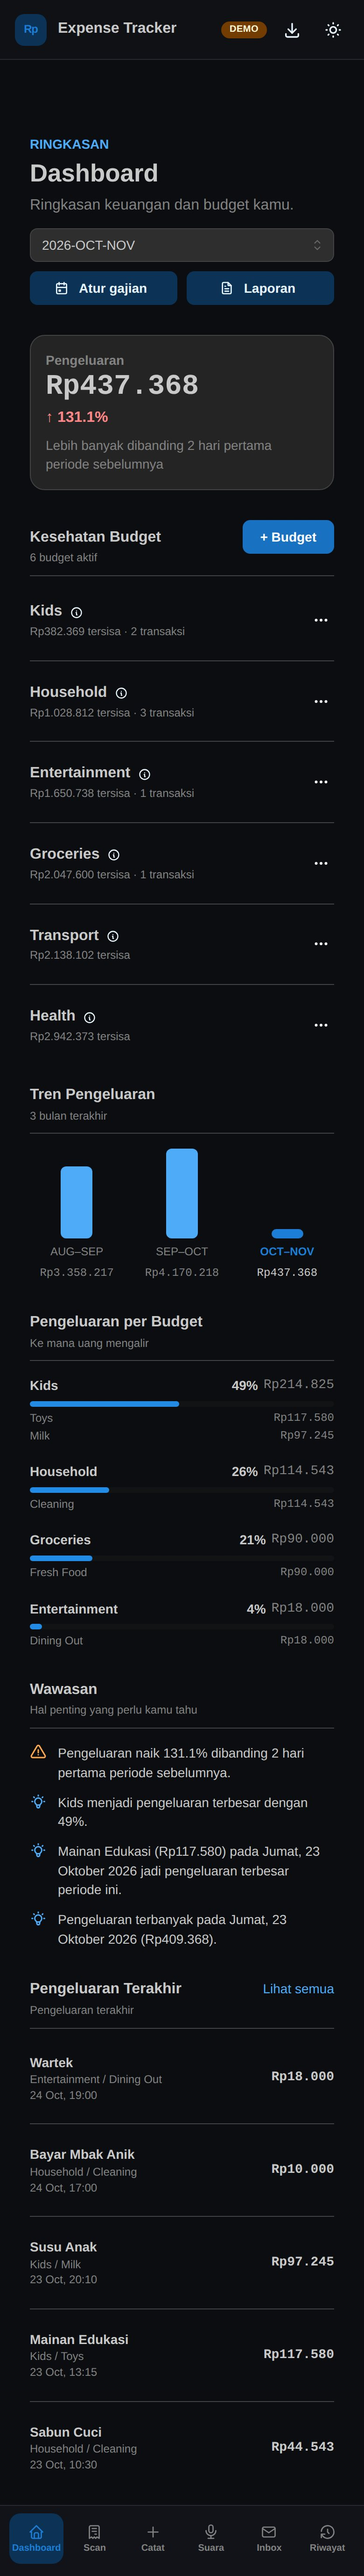
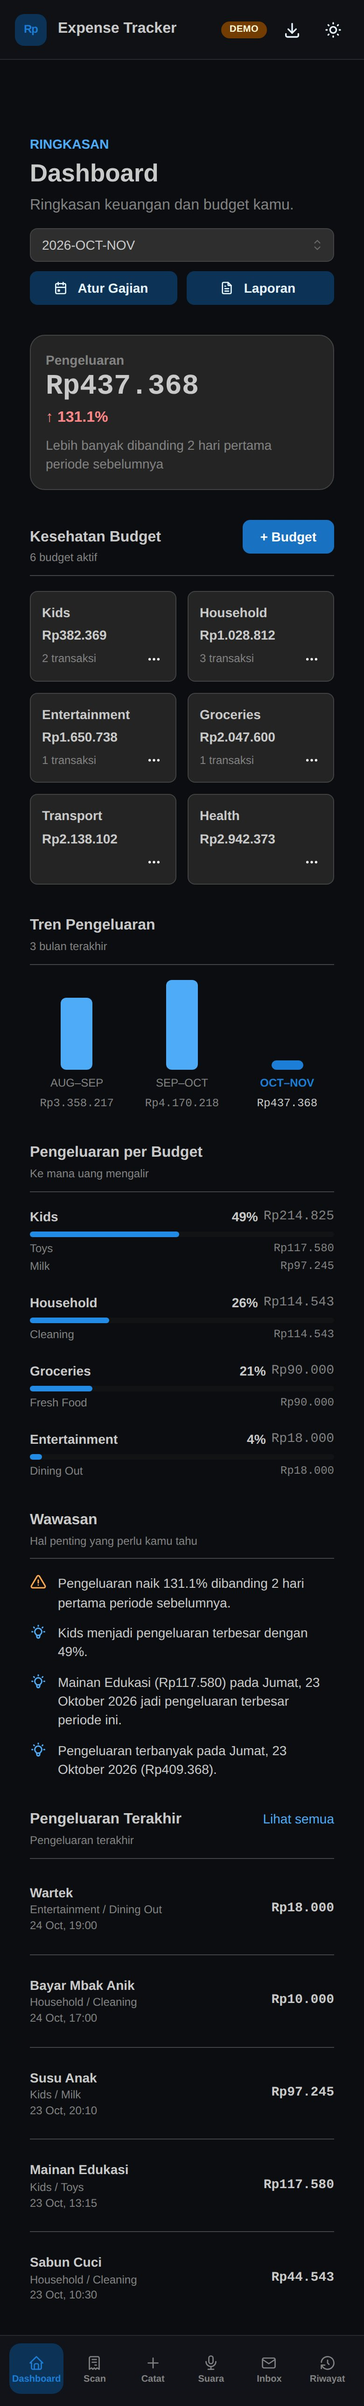
feat(dashboard): rapikan kartu kesehatan budget dan label atur gajian

diff --git a/frontend/src/components/dashboard/BudgetHealth.tsx b/frontend/src/components/dashboard/BudgetHealth.tsx
@@ -1,20 +1,18 @@
-import { Fragment, useMemo } from 'react'
+import { useMemo } from 'react'
 import {
   ActionIcon,
   Button,
-  Divider,
   Group,
   Menu,
-  Popover,
+  Paper,
+  SimpleGrid,
   Skeleton,
-  Stack,
   Text,
 } from '@mantine/core'
 import {
   IconAlertTriangle,
   IconClipboardList,
   IconDots,
-  IconInfoCircle,
   IconPencil,
   IconPlus,
   IconTag,
@@ -77,11 +75,12 @@ export function BudgetHealth({
       }
     >
       {isLoading ? (
-        <Stack gap="sm">
-          <Skeleton h={40} />
-          <Skeleton h={40} />
-          <Skeleton h={40} />
-        </Stack>
+        <SimpleGrid cols={2} spacing="sm">
+          <Skeleton h={72} radius="md" />
+          <Skeleton h={72} radius="md" />
+          <Skeleton h={72} radius="md" />
+          <Skeleton h={72} radius="md" />
+        </SimpleGrid>
       ) : isError ? (
         <ErrorState message="Gagal memuat budget." />
       ) : budgets.length === 0 ? (
@@ -89,62 +88,54 @@ export function BudgetHealth({
           Belum ada budget. Tambahkan budget pertama kamu.
         </Text>
       ) : (
-        <Stack gap={0}>
-          {sorted.map((b, i) => {
+        <SimpleGrid cols={2} spacing="sm">
+          {sorted.map((b) => {
             const info = infoOf(b.name)
             const negative = b.balance < 0
             const belowThreshold = b.alertThreshold > 0 && b.balance < b.alertThreshold
             const warning = negative || belowThreshold
             return (
-              <Fragment key={b.name}>
-                {i > 0 && <Divider my="sm" />}
-                <Group justify="space-between" align="center" wrap="nowrap" py="xs">
-                  <div style={{ minWidth: 0, flex: 1 }}>
-                    <Group gap={6} wrap="nowrap">
-                      {warning && (
-                        <IconAlertTriangle size={15} color={negative ? 'var(--mantine-color-red-6)' : 'var(--mantine-color-orange-6)'} aria-hidden />
-                      )}
-                      <Text fw={600} truncate>
-                        {b.name}
-                      </Text>
-                      {b.description && (
-                        <Popover width={280} position="bottom-start" withArrow shadow="md">
-                          <Popover.Target>
-                            <ActionIcon
-                              size="xs"
-                              variant="subtle"
-                              color="blue"
-                              aria-label={`Deskripsi ${b.name}`}
-                              style={{ flexShrink: 0 }}
-                            >
-                              <IconInfoCircle size={14} />
-                            </ActionIcon>
-                          </Popover.Target>
-                          <Popover.Dropdown>
-                            <Text size="sm">{b.description}</Text>
-                          </Popover.Dropdown>
-                        </Popover>
-                      )}
-                    </Group>
-                    <Text size="xs" c="dimmed" truncate>
-                      {negative
-                        ? `-${formatCurrency(Math.abs(b.balance))}`
-                        : `${formatCurrency(b.balance)} tersisa`}
-                      {info ? ` · ${info.count} transaksi` : ''}
-                    </Text>
-                    {belowThreshold && (
-                      <Text size="xs" c="orange" fw={600}>
-                        di bawah ambang {formatCurrency(b.alertThreshold)}
-                      </Text>
-                    )}
-                  </div>
-                  <Menu shadow="md" width={200} position="bottom-end">
+              <Paper key={b.name} withBorder radius="md" p="sm" h="100%" style={{ display: 'flex', flexDirection: 'column' }}>
+                <Group gap={6} wrap="nowrap" align="flex-start">
+                  {warning && (
+                    <IconAlertTriangle
+                      size={15}
+                      color={negative ? 'var(--mantine-color-red-6)' : 'var(--mantine-color-orange-6)'}
+                      aria-hidden
+                      style={{ flexShrink: 0, marginTop: 2 }}
+                    />
+                  )}
+                  <Text size="sm" fw={600} title={b.name} style={{ minWidth: 0, overflowWrap: 'break-word' }}>
+                    {b.name}
+                  </Text>
+                </Group>
+                <Text size="sm" fw={600} c={negative ? 'red' : undefined} mt={4}>
+                  {negative
+                    ? `-${formatCurrency(Math.abs(b.balance))}`
+                    : formatCurrency(b.balance)}
+                </Text>
+                {belowThreshold && (
+                  <Text size="xs" c="orange" fw={600} mt={2}>
+                    di bawah ambang {formatCurrency(b.alertThreshold)}
+                  </Text>
+                )}
+                <Group justify="space-between" align="center" wrap="nowrap" gap="xs" style={{ marginTop: 'auto', paddingTop: 4 }}>
+                  <Text size="xs" c="dimmed">
+                    {info ? `${info.count} transaksi` : ''}
+                  </Text>
+                  <Menu shadow="md" width={220} position="bottom-end">
                     <Menu.Target>
-                      <ActionIcon variant="subtle" color="gray" aria-label={`Menu ${b.name}`}>
-                        <IconDots size={18} />
+                      <ActionIcon size="sm" variant="subtle" color="gray" aria-label={`Menu ${b.name}`} style={{ flexShrink: 0 }}>
+                        <IconDots size={16} />
                       </ActionIcon>
                     </Menu.Target>
                     <Menu.Dropdown>
+                      {b.description && (
+                        <>
+                          <Menu.Label style={{ whiteSpace: 'normal' }}>{b.description}</Menu.Label>
+                          <Menu.Divider />
+                        </>
+                      )}
                       <Menu.Item leftSection={<IconPlus size={16} />} onClick={() => onTopUp(b.name)}>
                         Top-up
                       </Menu.Item>
@@ -164,10 +155,10 @@ export function BudgetHealth({
                     </Menu.Dropdown>
                   </Menu>
                 </Group>
-              </Fragment>
+              </Paper>
             )
           })}
-        </Stack>
+        </SimpleGrid>
       )}
     </DashboardSection>
   )

diff --git a/frontend/src/pages/DashboardPage.tsx b/frontend/src/pages/DashboardPage.tsx
@@ -1,5 +1,5 @@
 import { useEffect, useMemo, useState } from 'react'
-import { Button, Container, Group, Select, SimpleGrid, Stack } from '@mantine/core'
+import { Button, Container, Grid, Group, Select, SimpleGrid, Stack } from '@mantine/core'
 import { useMediaQuery } from '@mantine/hooks'
 import { Link } from 'react-router-dom'
 import { IconCalendarEvent, IconFileText } from '@tabler/icons-react'
@@ -128,7 +128,7 @@ function DashboardPage() {
                     leftSection={<IconCalendarEvent size={16} />}
                     onClick={() => setPaydaySettingsOpened(true)}
                   >
-                    Atur gajian
+                    Atur Gajian
                   </Button>
                   <Button
                     component={Link}
@@ -159,7 +159,7 @@ function DashboardPage() {
                   leftSection={<IconCalendarEvent size={16} />}
                   onClick={() => setPaydaySettingsOpened(true)}
                 >
-                  Atur gajian
+                  Atur Gajian
                 </Button>
                 <Button
                   component={Link}
@@ -184,26 +184,30 @@ function DashboardPage() {
           hasPeriod={!!period}
         />
 
-        <SimpleGrid cols={{ base: 1, sm: 2 }} spacing="xl">
-          <BudgetHealth
-            budgets={budgets}
-            byBudget={byBudget}
-            isLoading={optionsLoading}
-            isError={optionsError}
-            onAddBudget={() => setAddBudgetOpened(true)}
-            onTopUp={(name) => setSelectedTopUpBudget(name)}
-            onHistory={(name) => setSelectedTopUpHistoryBudget(name)}
-            onManageCategories={(name) => setManageCategoriesBudget(name)}
-            onEdit={setEditBudget}
-            onDelete={(name) => setDeleteBudgetName(name)}
-          />
-          <SpendingTrend
-            periods={trend?.periods ?? []}
-            selectedPeriod={period}
-            isLoading={trendLoading}
-            isError={trendError}
-          />
-        </SimpleGrid>
+        <Grid gap="xl">
+          <Grid.Col span={{ base: 12, sm: 8 }}>
+            <BudgetHealth
+              budgets={budgets}
+              byBudget={byBudget}
+              isLoading={optionsLoading}
+              isError={optionsError}
+              onAddBudget={() => setAddBudgetOpened(true)}
+              onTopUp={(name) => setSelectedTopUpBudget(name)}
+              onHistory={(name) => setSelectedTopUpHistoryBudget(name)}
+              onManageCategories={(name) => setManageCategoriesBudget(name)}
+              onEdit={setEditBudget}
+              onDelete={(name) => setDeleteBudgetName(name)}
+            />
+          </Grid.Col>
+          <Grid.Col span={{ base: 12, sm: 4 }}>
+            <SpendingTrend
+              periods={trend?.periods ?? []}
+              selectedPeriod={period}
+              isLoading={trendLoading}
+              isError={trendError}
+            />
+          </Grid.Col>
+        </Grid>
 
         <SimpleGrid cols={{ base: 1, sm: 2 }} spacing="xl">
           <SpendingByBudget
